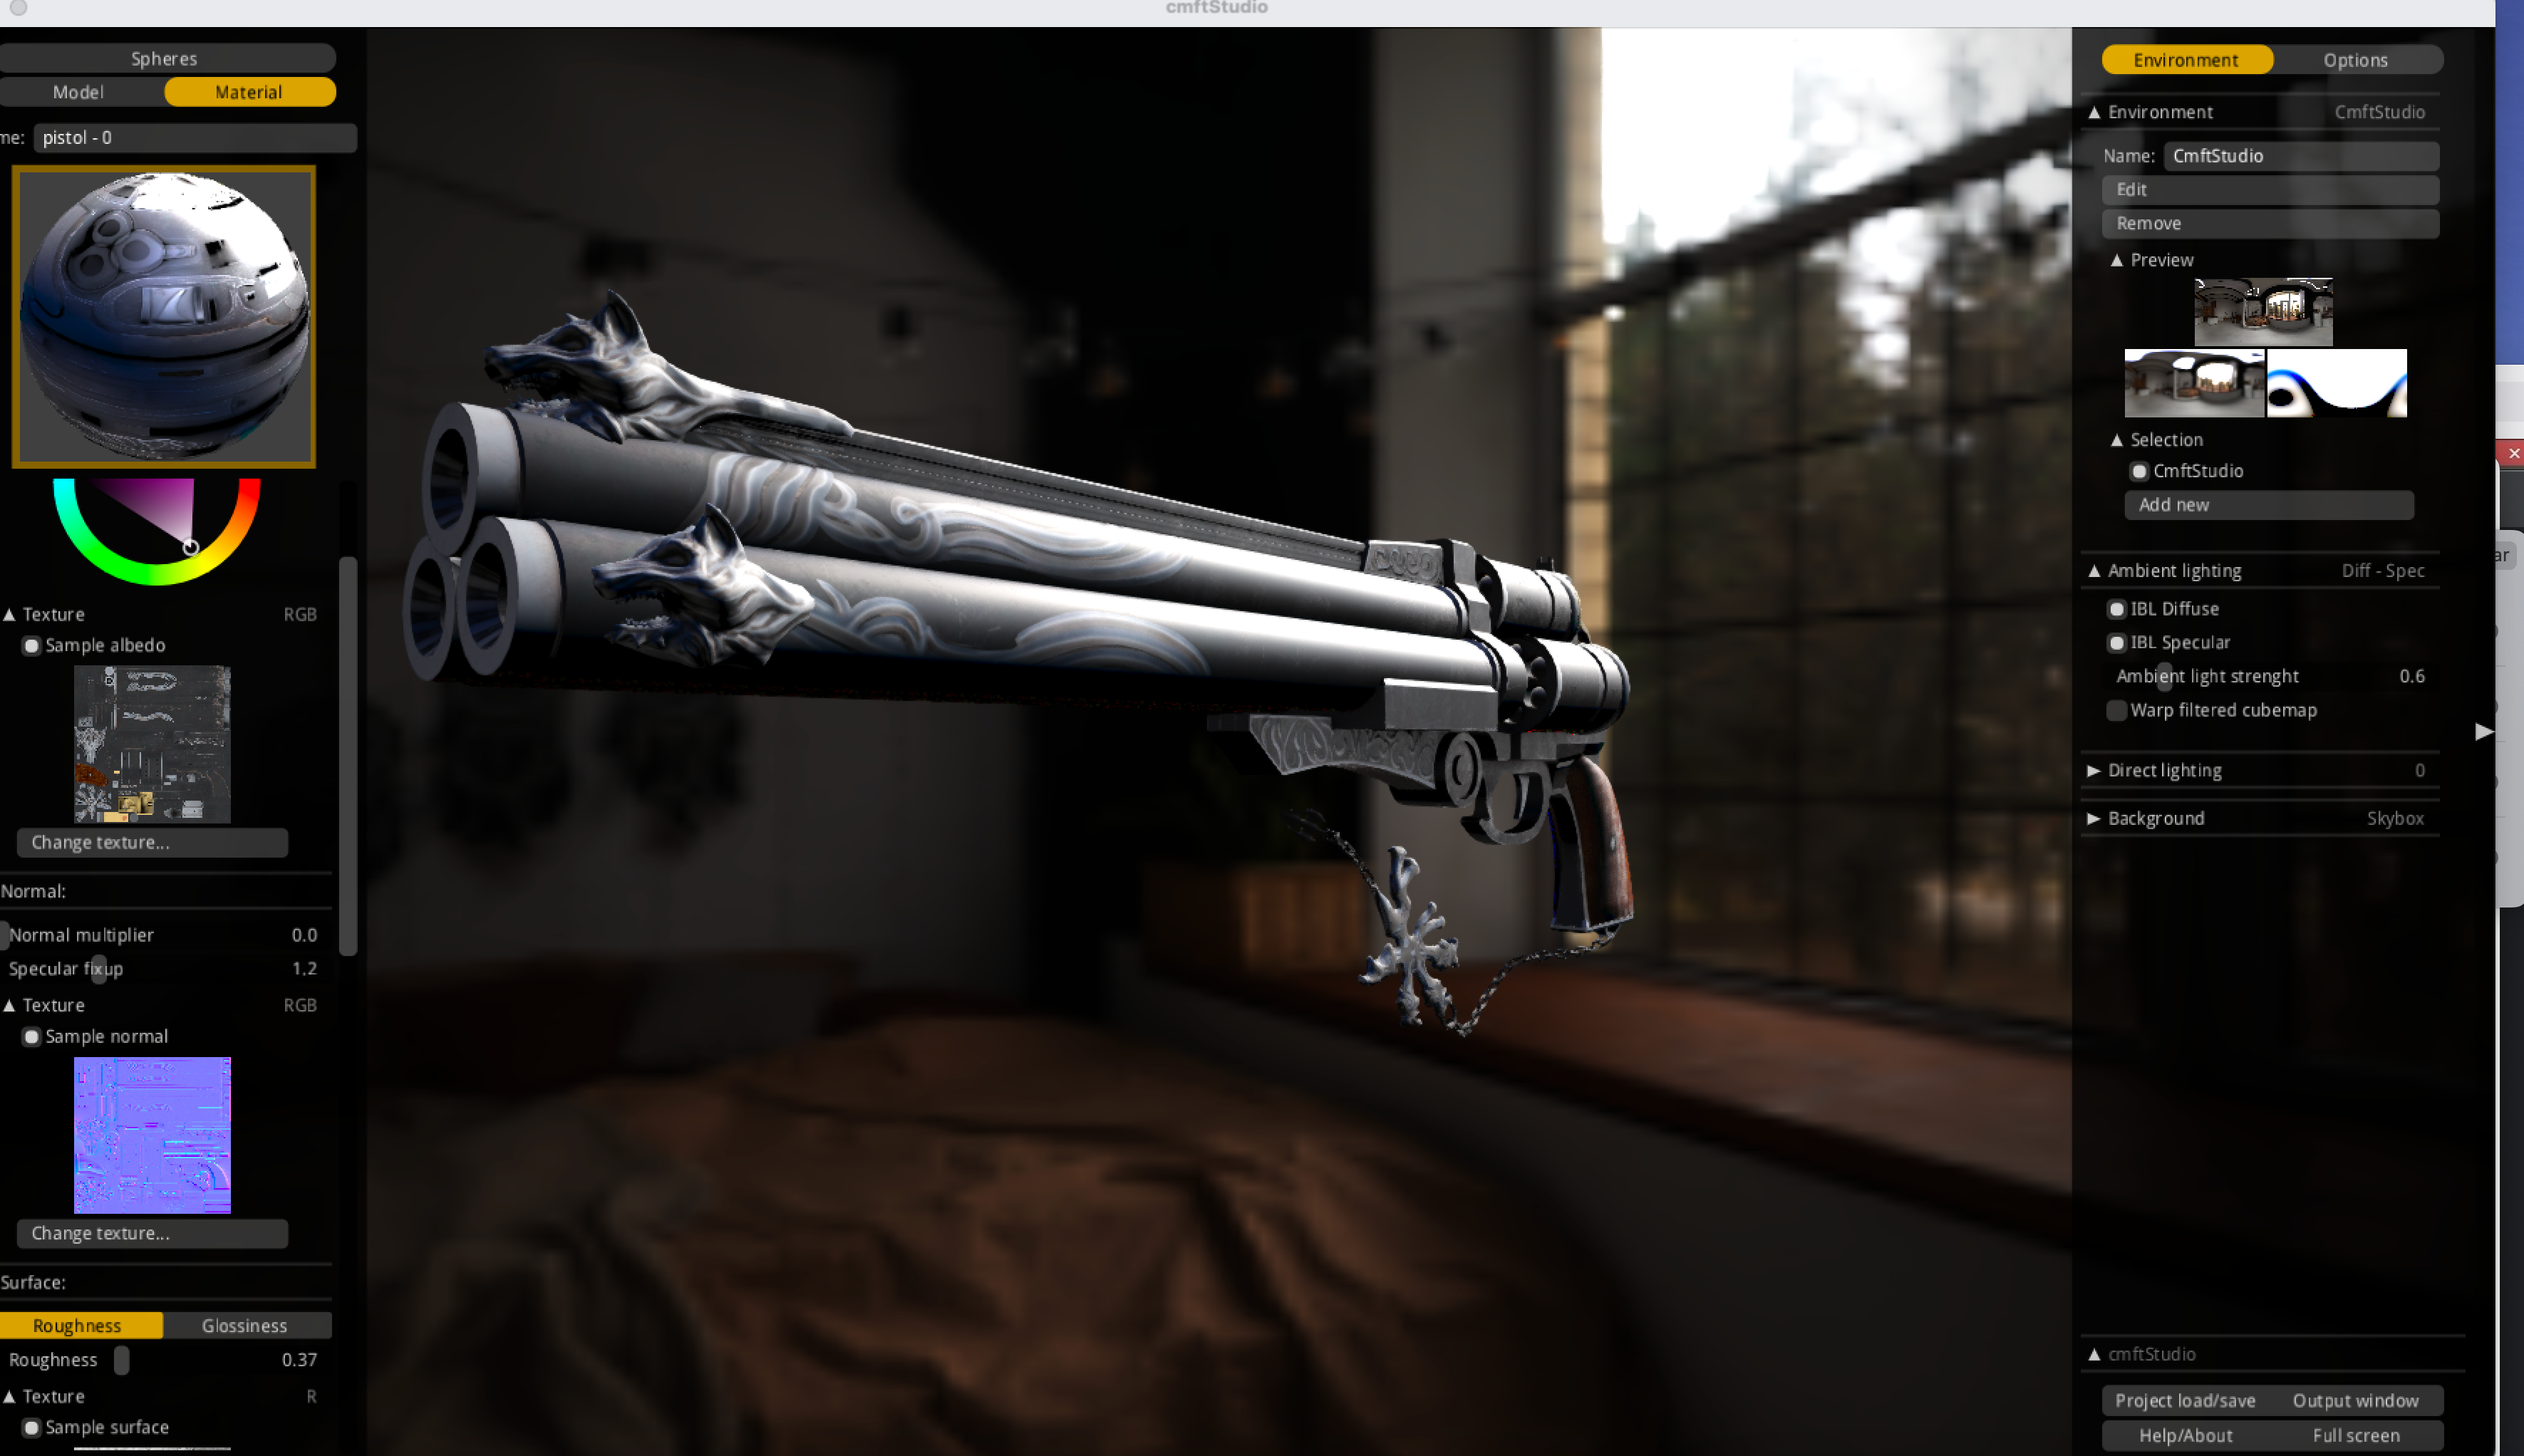
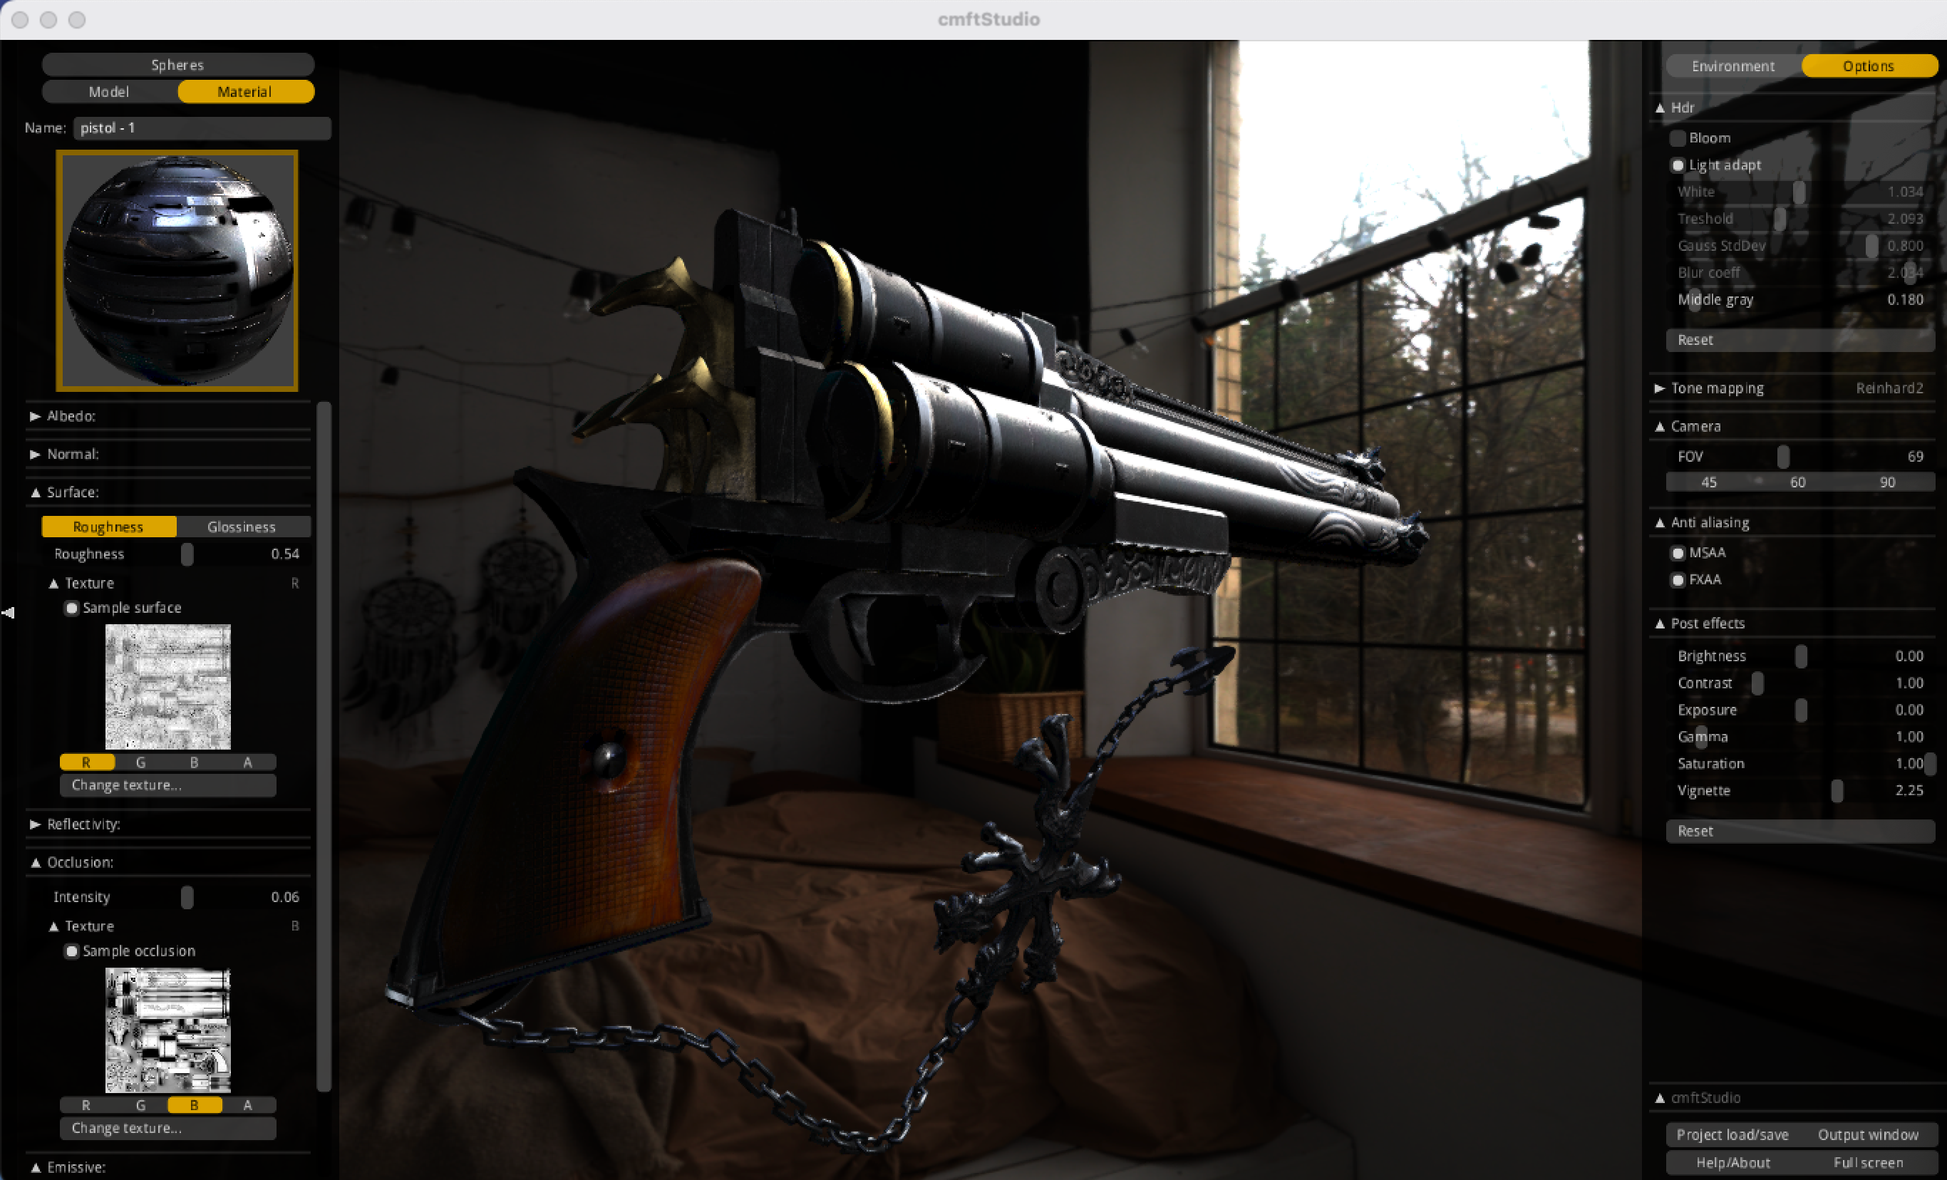
shot

diff --git a/src/skybox.cpp b/src/skybox.cpp
@@ -108,7 +108,6 @@ bool SkyBox::generateCubemapFromHDR(QOpenGLFunctions *gl, const QString &hdrFile
     m_convProgram.bind();
     m_convProgram.setUniformValue("hdrEquirectangular", 0);
     hdrTexture.bind(0);
-
     gl->glViewport(0, 0, cubemapSize, cubemapSize);
     gl->glClearColor(0.0f, 0.0f, 0.0f, 1.0f);
 
@@ -128,7 +127,6 @@ bool SkyBox::generateCubemapFromHDR(QOpenGLFunctions *gl, const QString &hdrFile
         // 构建视图矩阵：相机位于原点，看向 target，上方向为 up
         QMatrix4x4 captureView;
         captureView.lookAt(QVector3D(0, 0, 0), cubeFaces[i].target, cubeFaces[i].up);
-
         m_convProgram.setUniformValue("projection", captureProjection);
         m_convProgram.setUniformValue("view", captureView);
 
@@ -155,9 +153,7 @@ void SkyBox::render(QOpenGLFunctions *gl, const QMatrix4x4 &projection, const QM
         return;
 
     gl->glDepthFunc(GL_LEQUAL);
-
     m_skyboxProgram.bind();
-
     QMatrix4x4 viewNoTranslate = view;
     viewNoTranslate.setColumn(3, QVector4D(0, 0, 0, 1));
     m_skyboxProgram.setUniformValue("projection", projection);

diff --git a/README.md b/README.md
@@ -3,15 +3,21 @@
 
 此工程主要基于Qt OpenGL实现PBR效果，目标是实现cmftStudio引擎搭建的效果
 
-
+### cmftStudio渲染效果
 
 ![](screenshot/cmft.png)
 
+### 法线
 
 ![](screenshot/normal.png)
 
+### 渲染效果
 
 ![](screenshot/render.png)
+
+### 背景模糊效果
+
+![](screenshot/blur.png)
 
 ## 待实现
 1. skybox 模糊效果，突出渲染主体
